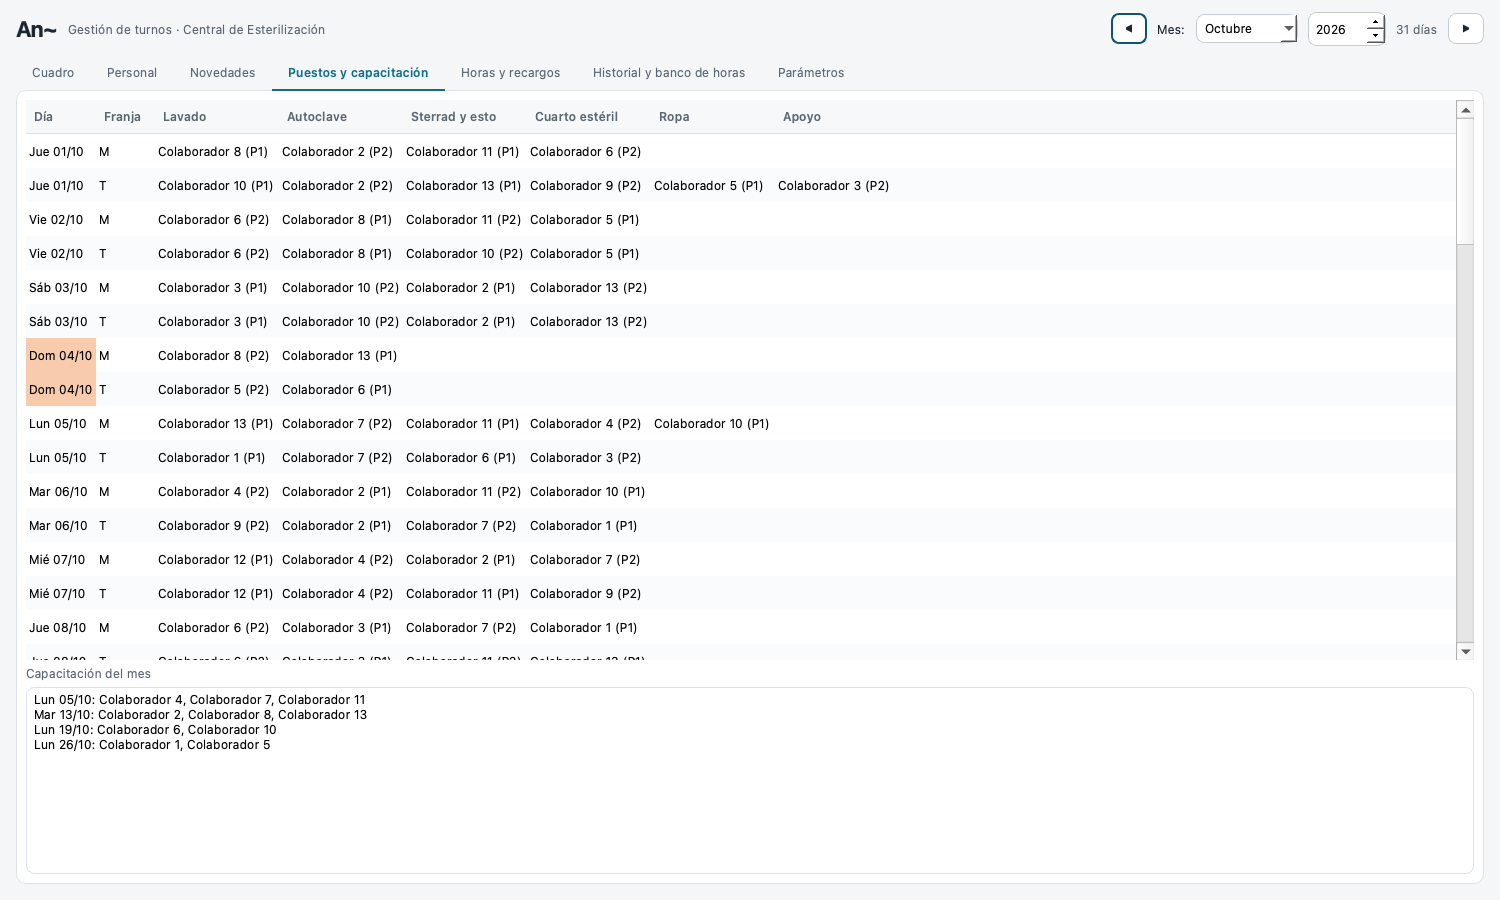
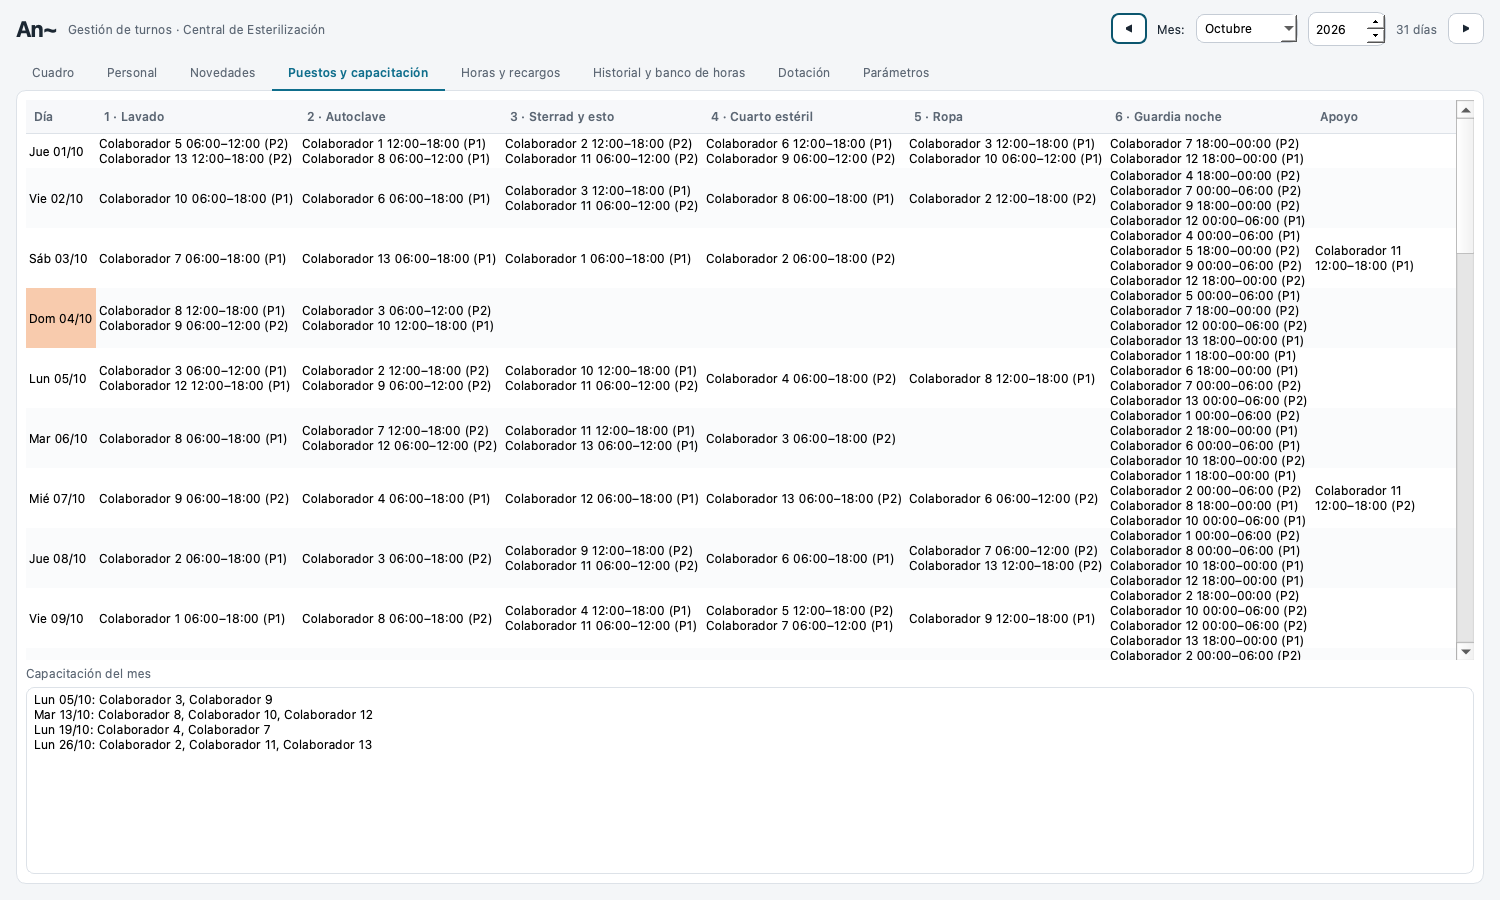
docs: posts and staffing documentation

diff --git a/ui_puestos.py b/ui_puestos.py
@@ -294,6 +294,7 @@ class TabDotacion(QWidget):
         ver.addWidget(self.b_verificar)
         ver.addWidget(self.b_cancelar)
         ver.addWidget(self.barra, 1)
+        ver.addStretch(1)
         lv.addLayout(ver)
         self.l_resultado = QLabel("", objectName="muted")
         self.l_resultado.setWordWrap(True)

diff --git a/docs/GUIA_USUARIO.md b/docs/GUIA_USUARIO.md
@@ -9,7 +9,7 @@ Esta guía recorre un mes completo. Todo se hace dentro de An~; no hace falta to
 1. **Personal.** Pestaña **Personal** → *+ Nuevo colaborador*. A la derecha se llena la ficha:
    - **Jornada semanal** y **% de jornada**.
    - **Puede hacer**: desmarca los turnos que no puede cubrir (por ejemplo, quita NC y C a quien no hace noches).
-   - **Puesto fijo**: por ejemplo el 3 (sterrad y esto).
+   - **Puestos que puede ocupar**: marca solo los que corresponden (por ejemplo, solo el 3, sterrad y esto). Si marcas todos, puede ocupar cualquiera; debe quedar al menos uno.
    - **No disponible por estudio**: marca los bloques de mañana o tarde de cada día en que estudia.
    - **Activo**: desmárcalo para que no entre en los cuadros nuevos sin perder su historial.
 
@@ -17,19 +17,26 @@ Esta guía recorre un mes completo. Todo se hace dentro de An~; no hace falta to
 2. **Turnos.** Pestaña **Parámetros → Turnos**. Selecciona un turno para editarlo o usa *+ Nuevo turno*:
    - **Empieza / Termina** (formato 24 h; si termina antes de empezar, cruza la medianoche).
    - **Pausa de almuerzo**: minutos y hora; marca *cuenta como trabajada* si es pagada. Abajo ves cuántas horas se cuentan.
-   - **Cubre**: qué franjas (mañana, tarde, noche) cuenta para la cobertura.
+   - **Cuenta en**: la app calcula sola si el turno cuenta en mañana, tarde o noche (se solapa al menos 3 h con esa franja) y lo muestra abajo.
    - Si se puede usar en domingo o festivo, si el generador puede asignarlo, el color y si está activo.
 
    *Eliminar* borra el turno si nunca se usó; si ya está en cuadros guardados queda inactivo. Mientras un turno de más de 6 h no tenga pausa, la app lo avisa.
-3. **Cobertura y reglas.** En **Parámetros → Cobertura y reglas** confirma cuántas personas se necesitan por franja, las semanas de la ventana legal y las reglas de descanso, que vienen activas por defecto:
+3. **Puestos y su demanda.** Pestaña **Parámetros → Puestos**. Cada puesto dice **cuántas personas necesita y en qué horario**; de ahí sale la cobertura que exige el generador. Usa *+ Nuevo puesto* o selecciona uno para editarlo:
+   - **Número, nombre, color y activo.**
+   - **Reglas de demanda**, las que quieras por puesto: días (*lunes a sábado* o *domingo y festivo*), **desde** y **hasta** (múltiplos de 30 min; si «hasta» es menor que «desde», cruza la medianoche), **personas** y si es **obligatoria** o **deseable**.
+   - Una regla **obligatoria** se exige al generar el cuadro; una **deseable** (por ejemplo, Ropa «si se puede») se busca si alcanza la gente, sin romper descansos ni el reparto parejo.
+   - Un puesto puede pedir **varias personas** a la vez, con ventanas a mitad de franja (por ejemplo, 08:00–14:00) o de noche (18:00–06:00).
+
+   Al guardar, la app avisa si **ningún turno del catálogo cubre** esa ventana («Ningún turno cubre 08:00–14:00») o si hay reglas solapadas (se suman). Un puesto sin reglas no exige nada. *Eliminar* borra el puesto si nunca se usó; si ya tiene reparto guardado queda inactivo.
+4. **Reglas y esquema.** En **Parámetros → Cobertura y reglas** confirma las semanas de la ventana legal y las reglas de descanso, que vienen activas por defecto:
    - **Libre después de una noche**: 1 día.
    - **Días libres por semana**: mínimo 1.
-   - **Fines de semana libres al mes** (sábado y domingo): mínimo 1 por persona; el libre posterior a una noche cuenta.
+   - **Fines de semana libres por esquema** (sábado y domingo): mínimo 1 por persona; el libre posterior a una noche cuenta.
    - **Máximo de noches en racha** (NC, L, NC, L…): 2 por defecto.
    - **Máximo de corridos (C) seguidos**: 2 por defecto; además el generador intenta evitar incluso los pares.
    - **Máximo del mismo turno (M, T…) seguido**: 3 por defecto (nunca 4 M seguidas).
 
-   La pantalla agrupa estos valores en tarjetas: cobertura, esquema y horas, descansos y límites de repetición.
+   La pantalla agrupa estos valores en tarjetas: esquema y horas, descansos, límites de repetición y banco de horas.
 
    Además, el generador reparte parejo M, T, C y NC entre el personal y prefiere poner los libres en sábado o domingo.
 
@@ -77,12 +84,12 @@ Los días de estudio aparecen en **morado** sobre las celdas libres, y al pasar 
 
 Cada celda del cuadro muestra el turno. Para ver **en qué puesto** está cada persona:
 
-- Marca **Mostrar puesto** junto al selector *Ver*: las celdas pasan de `M` a `M·2`. El número es el puesto (1 lavado, 2 autoclave, 3 sterrad y esto, 4 cuarto estéril, 5 ropa) y `A` significa **apoyo**, sin puesto fijo ese día. La leyenda está bajo la grilla.
-- Pasa el cursor sobre una celda de día: el aviso dice «Puesto: Autoclave».
-- La pestaña **Puestos y capacitación** muestra lo mismo por día, con el grupo de pausa (P1/P2).
+- Marca **Mostrar puesto** junto al selector *Ver*: las celdas pasan de `M` a `M·2`. El número es el del **puesto donde la persona pasa más tiempo** ese día y `A` significa **apoyo**, sin puesto ese día. La leyenda con los puestos activos está bajo la grilla.
+- Pasa el cursor sobre una celda: el aviso lista los puestos con su horario («Autoclave 06:00–12:00; Lavado 12:00–18:00»), porque una persona puede cambiar de puesto dentro de su turno.
+- La pestaña **Puestos y capacitación** muestra, por día, una columna por puesto con quién lo ocupa y en qué horario, más el apoyo y el grupo de pausa (P1/P2).
 - En Excel, el archivo del cuadro trae la hoja **Cuadro con puestos** y el archivo de puestos, una hoja por semana.
 
-Las noches no llevan puesto. Si escribes en una celda con el puesto visible, basta el código (`T`, o `T·2`, ambos valen). Los puestos se recalculan solos con cada cambio.
+Las noches también tienen puesto si defines uno de noche (por ejemplo, «Guardia noche»). El reparto respeta los **puestos permitidos** de cada persona y evita cambiar de puesto dentro del turno salvo que la demanda lo exija. Si escribes en una celda con el puesto visible, basta el código (`T`, o `T·2`, ambos valen). Los puestos se recalculan solos con cada cambio.
 
 ### 4. Cuando llega una novedad tarde
 
@@ -133,14 +140,23 @@ Los cierres no se borran desde el banco; se deshacen reabriendo el periodo. Los 
 
 **Historial y banco de horas → Historial de esquemas** lista todos los periodos con cuadro: días, estado (abierto o cerrado), personas, horas trabajadas, saldo del periodo al cerrarlo, cambios frente al original y alertas. Doble clic en uno lo abre en el cuadro, cambiando solo el selector de periodo.
 
-### 9. Exportar
+### 9. Calcular cuántas personas se necesitan (Dotación)
+
+La pestaña **Dotación** responde cuántas personas piden los puestos:
+
+- **Estimación inmediata:** horas-persona de una semana tipo (6 días de lunes a sábado + 1 de domingo/festivo) ÷ la jornada media, con un **margen de ausentismo** (10 % por defecto) por vacaciones e incapacidades. Muestra las cifras por puesto y por franja, el personal activo y si **sobran o faltan** personas. La casilla *Incluir puestos deseables* suma esos puestos.
+- **Verificar con el generador:** busca el **mínimo de personas** con el que existe un cuadro que cumple los puestos obligatorios **y** todas las reglas de descanso (libre tras noche, fines de semana libres, rachas) del periodo seleccionado. Corre en segundo plano, con barra de avance y botón *Cancelar*, y puede tardar un minuto. Si ninguna cantidad cumple, explica por qué (por ejemplo, que ningún turno cubre una ventana).
+
+La verificación aplica el margen sobre el mínimo entero, así que puede dar una persona más que la estimación por horas.
+
+### 10. Exportar
 
 **Exportar Excel** pide una carpeta y guarda tres archivos:
 
 | Archivo | Contenido |
 |---|---|
 | `CUADRO <MES AÑO>.xlsx` | Hojas *Cuadro* (con lo cambiado en amarillo), *Original* y *Cambios* |
-| `PUESTOS <MES AÑO>.xlsx` | Una hoja por semana con puestos, noche y capacitación |
+| `PUESTOS <MES AÑO>.xlsx` | Una hoja por semana: una columna por puesto con quién lo ocupa y su horario, el apoyo y la capacitación |
 | `HORAS Y RECARGOS <MES AÑO>.xlsx` | Horas por persona y categoría, horas por semana y el régimen aplicado |
 
 Si el archivo ya existe, guarda `v2`, `v3`… y no sobrescribe nada.
@@ -149,7 +165,7 @@ Si el archivo ya existe, guarda `v2`, `v3`… y no sobrescribe nada.
 
 **¿Por qué una celda no deja cambiar?** Los días de novedad (VAC, INC…), las filas de totales y la vista *Original* son de solo lectura; arrastrar sobre ellas avisa.
 
-**La app dice que faltan personas en un día.** Hay demasiadas novedades o restricciones ese día. Revisa **Novedades**, o baja la cobertura requerida si es una decisión del servicio.
+**La app dice que faltan personas en un día.** Las filas «Cobertura mañana/tarde/noche» de la grilla marcan `−n` y, al pasar el cursor, el horario exacto. Hay demasiadas novedades o restricciones, o la demanda de los puestos es mayor que el personal. Revisa **Novedades**, la pestaña **Dotación** o baja la demanda del puesto si es una decisión del servicio.
 
 **¿Dónde quedan mis datos?** En `turnos.db`, junto a la app. Para respaldarlos, copia ese archivo.
 

diff --git a/docs/ARQUITECTURA.md b/docs/ARQUITECTURA.md
@@ -35,24 +35,28 @@ flowchart TB
 
 | Archivo | Responsabilidad |
 |---|---|
-| `dominio.py` | `Turno` (catálogo editable, pausas, `cubre` M/T/N), `Colaborador`, `Novedad`, `Contexto` (`bloqueo()` explica por qué alguien no puede hacer un turno), festivos de Colombia (Ley Emiliani) |
+| `dominio.py` | `Turno` (catálogo editable, pausas; `cubre` se calcula del horario), `Puesto`, `Demanda`, `AsignacionPuesto`, `Colaborador`, `Novedad`, `Contexto` (`bloqueo()` explica por qué alguien no puede hacer un turno), festivos de Colombia (Ley Emiliani) |
 | `db.py` | SQLite con migraciones por `PRAGMA user_version`. Cuadro en dos versiones por mes (`original`, `cambios`) |
 | `reglas.py` | Validación pura de un cuadro `{(colab_id, fecha): código}` |
-| `solver.py` | Modelo CP-SAT del mes |
-| `puestos.py` | Reparto de puestos: fijos, luego corridos, luego medias jornadas |
+| `demanda.py` | Modelo puro de la demanda por tramos de 30 min: ventanas, `demanda_fecha`, franjas de un turno, huecos sin turno, estimación por horas |
+| `solver.py` | Modelo CP-SAT del periodo; cobertura por tramos |
+| `puestos.py` | Reparto por tramo: un CP-SAT por día (puestos permitidos, continuidad, rotación) y textos de «Mostrar puesto» |
+| `dotacion.py` | Calculadora: estimación por horas y búsqueda del mínimo de personas con el solver |
 | `capacitacion.py` | Sesiones semanales |
 | `recargos.py` | Horas por categoría y ventana del art. 165 |
 | `flujo.py` | Orquestación (`cero`, `respetar`, `semana`) y acumulado de equidad |
 | `exportar.py` | Tres libros Excel sin sobrescribir |
-| `app.py` | Ventana PySide6; el solver corre en un `QThread` |
+| `app.py`, `ui_puestos.py`, `ui_base.py` | Ventana PySide6; pestañas de puestos y dotación; helpers compartidos de tablas. El solver y la verificación corren en `QThread` |
 
 ## Datos (SQLite)
 
-`turno`, `cobertura`, `colaborador`, `novedad`, `asignacion` (periodo, versión, colaborador, fecha, turno, origen, `fijo`), `puesto_dia`, `capacitacion`, `tarifa`, `parametro`, y desde la versión 3 `periodo_estado` (periodos cerrados), `cierre` (foto de horas contratadas y trabajadas por persona) y `banco_mov` (movimientos manuales del banco de horas). La base se crea sola en `turnos.db` junto a la app.
+`turno`, `cobertura` (en desuso desde la versión 4), `colaborador`, `novedad`, `asignacion` (periodo, versión, colaborador, fecha, turno, origen, `fijo`), `puesto_dia`, `capacitacion`, `tarifa`, `parametro`, y desde la versión 3 `periodo_estado` (periodos cerrados), `cierre` (foto de horas contratadas y trabajadas por persona) y `banco_mov` (movimientos manuales del banco de horas). Desde la versión 4: `puesto`, `demanda` (reglas por puesto: tipo de día, inicio, fin, personas, obligatorio) y `persona_puesto` (puestos que puede ocupar cada persona). Desde la versión 5: `asignacion_puesto` (periodo, fecha, persona, puesto, desde, hasta, pausa); `puesto_dia` queda solo para saber si un puesto tiene historial. La base se crea sola en `turnos.db` junto a la app y migra sola.
 
 ## Solver
 
 Variable `x[persona, día, turno]` con L más los turnos del catálogo marcados para el solver.
+
+**Cobertura por tramos:** la demanda obligatoria de los puestos se exige tramo a tramo (48 por día). Un turno aporta a los tramos que cubre su horario real; una noche aporta a la madrugada del día siguiente, y en el primer día del periodo cuentan las noches del anterior si hay datos (`previo`). Cada persona faltante pesa `W_FALTA` por tramo; con `estricto=True` (calculadora) es restricción dura. Los puestos deseables dan un premio suave (`W_DESEABLE`).
 
 **Duras:** una opción por persona y día; descanso de 12 h (transiciones prohibidas calculadas con los horarios reales); día libre después de una noche (también cuando la noche cae al final del mes anterior); mínimo de días libres por semana completa; al menos un fin de semana completo libre al mes por persona; novedades, estudio y turnos permitidos; tope de noches seguidas; celdas fijas por edición manual (si una edición manual ocupa el día libre o el fin de semana, esa regla no se exige para ese caso); continuidad con el mes anterior.
 
@@ -60,9 +64,15 @@ Variable `x[persona, día, turno]` con L más los turnos del catálogo marcados 
 
 **Meta de horas:** la meta de cada ventana se ajusta con `ajuste` (`flujo.ajustes_banco`, a partir del saldo del banco y de los topes `banco_tope_favor_h` y `banco_tope_deuda_h`); es solo un cambio en el objetivo suave de horas, no una regla dura.
 
-**Objetivo:** faltante de cobertura (peso muy alto) y sobrante; desviación de horas por ventana del art. 165; cambios de turno día a día; noche antes de estudio de mañana; noches y domingos/festivos en semanas seguidas; dos corridos seguidos; semanas sin libre en sábado o domingo; equidad de cada turno (M, T, C, NC…) y de domingos/festivos entre quienes tienen las mismas restricciones, incluyendo meses anteriores.
+**Objetivo:** faltante de cobertura (peso muy alto) y premio por deseables; desviación de horas por ventana del art. 165; cambios de turno día a día; noche antes de estudio de mañana; noches y domingos/festivos en semanas seguidas; dos corridos seguidos; semanas sin libre en sábado o domingo; equidad de cada turno (M, T, C, NC…) y de domingos/festivos entre quienes tienen las mismas restricciones, incluyendo meses anteriores.
 
 Si hay celdas fijas imposibles, el error lo indica y sugiere «Restaurar».
+
+## Puestos, demanda y dotación
+
+Un puesto es un catálogo más **reglas de demanda** (tipo de día `LS`/`DF` del día en que empieza la ventana, inicio y fin en minutos, personas, obligatoria o deseable). `demanda.py` convierte esas reglas en demanda por tramo y por fecha, incluida la parte de madrugada de las ventanas nocturnas del día anterior. La cobertura que ve la interfaz y las alertas sale de esa demanda, no de números aparte.
+
+El reparto por persona (`puestos.asignar_tramos`) agrupa los tramos con la misma presencia y demanda en **bloques** para que cada día sea un modelo pequeño (un mes completo se reparte en una fracción de segundo). `dotacion.verificar_minimo` parte de la cota por horas, duplica hasta encontrar una cantidad factible y bisecta, con personas genéricas de jornada completa y `solver.generar(..., estricto=True)`; supone que si N personas alcanzan, N+1 también.
 
 ## Periodos
 

diff --git a/README.md b/README.md
@@ -43,13 +43,15 @@ El plan, los principios y las preguntas abiertas están en [docs/VISION.md](docs
 
 | | |
 |---|---|
-| 🧮 **Cuadro con solver** | OR-Tools genera el esquema completo (un mes, o N semanas desde un lunes): cobertura 4+4+2 (lunes a sábado) y 2+2+2 (domingo y festivo), 12 h de descanso, día libre después de cada noche, al menos un día libre por semana y un fin de semana completo libre por esquema. |
+| 🧮 **Cuadro con solver** | OR-Tools genera el esquema completo (un mes, o N semanas desde un lunes): la cobertura que piden los puestos, tramo a tramo, 12 h de descanso, día libre después de cada noche, al menos un día libre por semana y un fin de semana completo libre por esquema. |
 | ⚖ **Rotación y equidad** | Reparte parejo M, T, C y NC y los domingos/festivos, limita rachas de noches y de corridos, prefiere los libres en fin de semana y arrastra lo acumulado de meses anteriores. |
 | ✋ **Edición ágil** | Arrastra celdas para intercambiarlas, asigna turnos a varias celdas con clic derecho y deshaz con Ctrl+Z. Los días de estudio se ven en la grilla. |
 | 🗂 **Original y cambios** | Dos versiones por mes. Lo que se edita queda en amarillo, con lista de diferencias, y se puede publicar o restaurar. |
 | 👥 **Personal y novedades** | Crear, editar y eliminar colaboradores con casillas para turnos permitidos y bloques de estudio; vacaciones, incapacidades, licencias y días libres. |
 | 🕘 **Turnos editables** | Crea, edita y elimina turnos: horarios, franjas que cubren, color y pausa de almuerzo (pagada o no). Todo se recalcula. |
-| 📍 **Puestos del día** | Lavado, autoclave, sterrad, cuarto estéril y ropa, con rotación y grupos de relevo. |
+| 🧩 **Puestos con demanda** | Crea y edita puestos con reglas de demanda: personas requeridas, horario por tramos de 30 min (también a mitad de franja o de noche), obligatorio o deseable. La cobertura sale de ahí. |
+| 📍 **Reparto por puesto** | Quién ocupa cada puesto en cada tramo, respetando los puestos permitidos de cada persona, con rotación y grupos de relevo. |
+| 👥 **Dotación** | Calcula cuántas personas piden los puestos: estimación por horas y verificación con el generador del mínimo que cumple todas las reglas. |
 | 🎓 **Capacitación** | Una sesión por semana como máximo, el lunes o el siguiente día hábil, para que asistan todos. |
 | 🏦 **Banco de horas e historial** | Cierra cada periodo y lleva el saldo por persona (a quién se le deben horas y quién las debe), con movimientos manuales y un historial de esquemas. El generador usa el saldo para compensar en el siguiente periodo, con topes. |
 | 💰 **Horas y recargos** | Ventana del art. 165 CST, pendientes y adicionales, nocturno, dominical/festivo y extras con tarifas por fecha. |
@@ -78,6 +80,10 @@ El solver cumple las reglas duras y optimiza el resto (horas de la ventana, rota
 <tr>
 <td width="50%"><img src="docs/img/puestos.png" alt="Puestos y capacitación"><br><sub><b>Puestos y capacitación.</b> Quién va en cada puesto, con el grupo de pausa (P1/P2).</sub></td>
 <td width="50%"><img src="docs/img/horas.png" alt="Horas y recargos"><br><sub><b>Horas y recargos.</b> Contratadas, trabajadas, pendientes y adicionales por persona.</sub></td>
+</tr>
+<tr>
+<td width="50%"><img src="docs/img/puestos_editor.png" alt="Editor de puestos"><br><sub><b>Puestos.</b> Reglas de demanda por puesto y horario.</sub></td>
+<td width="50%"><img src="docs/img/dotacion.png" alt="Dotación"><br><sub><b>Dotación.</b> Personas necesarias frente al personal activo.</sub></td>
 </tr>
 <tr>
 <td width="50%"><img src="docs/img/banco.png" alt="Banco de horas"><br><sub><b>Banco de horas.</b> Saldo por persona, con cierres y movimientos.</sub></td>
@@ -126,6 +132,7 @@ En el PC destino basta descomprimir y abrir `An.bat`. No se instala nada.
 |---|---|---|
 | [Guía de uso](docs/GUIA_USUARIO.md) | Coordinación | El mes paso a paso: personal, novedades, generar, ajustar, exportar |
 | [Visión](docs/VISION.md) | Todos | Hacia dónde crece An~: más servicios y procesos vinculados |
+| Diseño de puestos y dotación | Desarrollo | Diseño y plan de implementación de puestos con demanda y dotación |
 | [Reglas y marco legal](docs/REGLAS.md) | Coordinación, RR. HH., jurídico | Reglas del servicio, normativa aplicada y puntos por confirmar |
 | [Arquitectura](docs/ARQUITECTURA.md) | Desarrollo | Módulos, datos, modelo del solver, empaquetado |
 | [Hoja de ruta](docs/HOJA_DE_RUTA.md) | Todos | Qué falta validar y hacia dónde crece |

diff --git a/docs/REGLAS.md b/docs/REGLAS.md
@@ -33,6 +33,13 @@ Estado: v1. Todo lo marcado **[confirmar]** lo debe validar la coordinación, RR
 - Trabajo en día de descanso: ocasional hasta 2 al mes, habitual desde 3 (afecta el compensatorio). La app reporta el conteo.
 - Datos personales (Ley 1581 de 2012): la base `turnos.db` es local y no se versiona.
 
+## Puestos y dotación
+
+- La **cobertura sale de los puestos**: cada regla de demanda pide un número de personas durante una ventana (múltiplos de 30 min) en lunes a sábado o en domingo/festivo. La ventana de una noche cuenta en el tipo de día en que **empieza**.
+- **Obligatoria** significa que el generador la exige (un faltante se marca en la grilla); **deseable** se busca si alcanza, sin sacrificar descansos ni reparto.
+- Un turno cuenta en mañana, tarde o noche si se solapa al menos 3 h con esa franja (M 06–12, T 12–18, N 18–06).
+- **Dotación:** margen de ausentismo por defecto **10 %** **[confirmar]**; la verificación con el generador usa personas genéricas de jornada completa y sin restricciones.
+
 ## Banco de horas
 
 El banco lleva, por persona, **horas trabajadas − horas contratadas** de cada periodo cerrado, más los movimientos manuales (saldo inicial, compensaciones, pagos, ajustes). Positivo significa que la institución le debe horas a la persona; negativo, que la persona debe horas. Al cerrar se guarda una foto de las horas contratadas y trabajadas, así que cambios posteriores de jornada o de tarifas no reescriben el historial. Las horas contratadas descuentan las novedades del periodo. Al generar un periodo, el saldo anterior mueve la meta de horas: se baja a quien se le deben horas y se sube a quien las debe, con un tope por periodo en cada dirección (12 h por defecto, 0 = apagado). Pedir más horas a quien las debe puede tener implicaciones laborales, así que cada dirección se puede apagar por separado **[confirmar]**. Qué se hace con un saldo (compensarlo, pagarlo, trasladarlo) es una decisión de la coordinación y de RR. HH.; An~ lo registra y lo usa solo como preferencia del generador.

diff --git a/docs/HOJA_DE_RUTA.md b/docs/HOJA_DE_RUTA.md
@@ -30,6 +30,19 @@ Estado a oct-2026. v1 está construida; falta validarla con la coordinación y e
 | Otros servicios | Reutilizar el modelo para áreas con la misma estructura | Hoy el proyecto es solo Esterilización; requeriría servicios configurables |
 | Servidor y accesos | Cada colaborador consulta su horario | Implica base compartida y autenticación; fuera de alcance por ahora |
 
+## Hecho recientemente
+
+Puestos editables con demanda por tramos, cobertura derivada, reparto por tramo con puestos permitidos y calculadora de dotación (diseño: spec, plan: plan).
+
+## Siguientes (en orden de valor)
+
+1. **Probar en el PC corporativo y en Windows** (Qt, OR-Tools y la interfaz).
+2. **Copia de seguridad y restauración** de `turnos.db`.
+3. **Registro de cambios** (quién, cuándo y por qué) en ediciones y cierres.
+4. **Excel del banco de horas** para RR. HH.
+5. **Sugerir turnos** para ventanas que ningún turno del catálogo cubre.
+6. Solicitudes y permutas con aprobación; importar el Excel actual.
+
 ## Convenciones del proyecto
 
 - Interfaz y mensajes en español; no cambiar nombres de hojas ni etiquetas de los Excel sin avisar.
